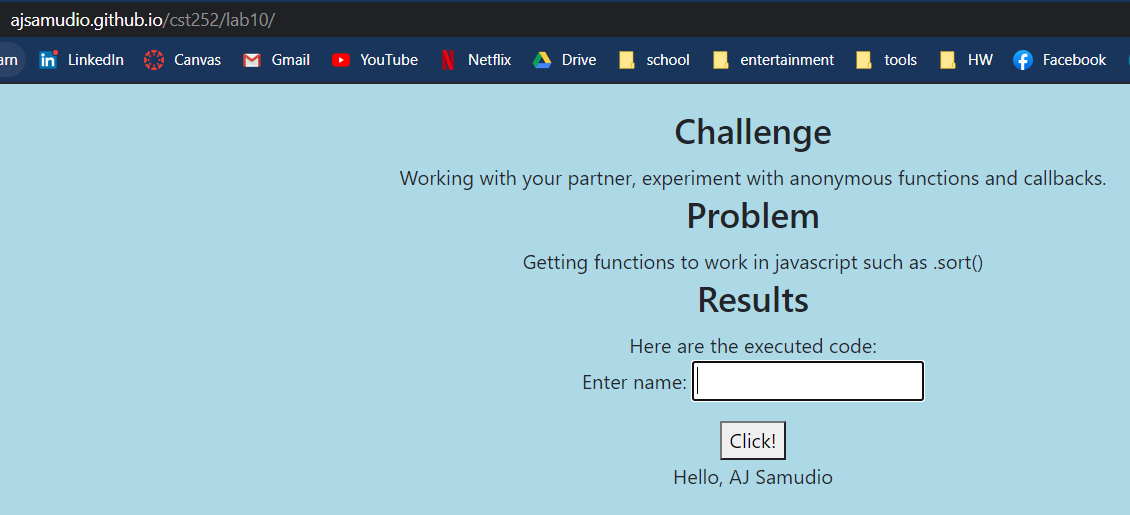
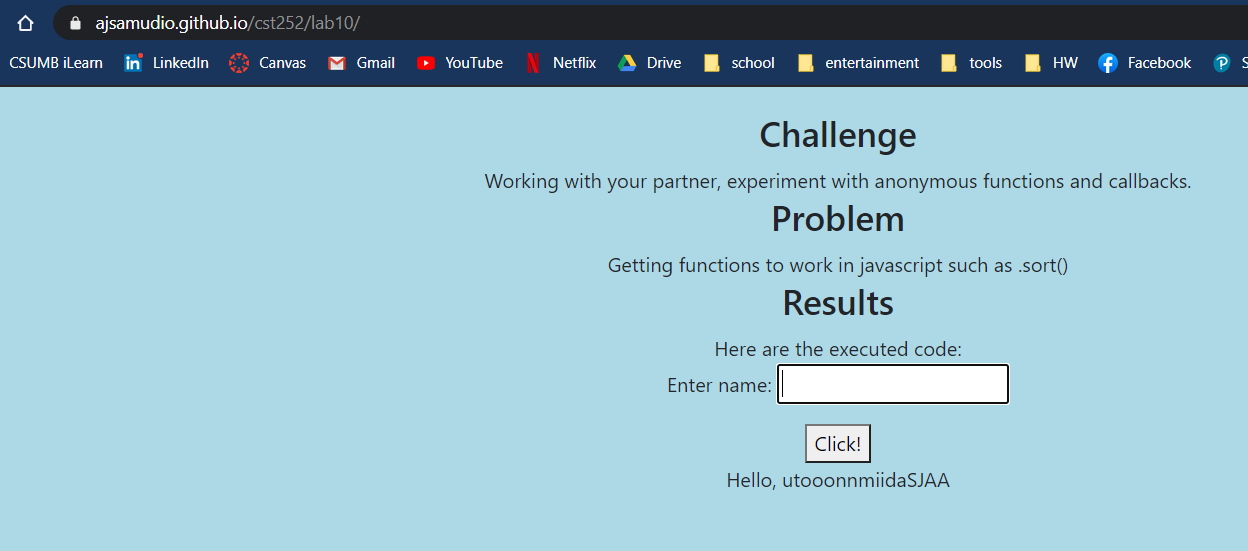
fancyLab10

Changed region(s): [[0.3407, 0.3107, 0.9912, 0.9631], [0.0, 0.0, 1.0, 0.1864], [0.5885, 0.2175, 0.7434, 0.2796]]

diff --git a/lab10/index.html b/lab10/index.html
@@ -9,15 +9,15 @@
 </head>
 <body class="container centeredText">
 
-
+<div class="box">
 	<h3>Challenge</h3>
-			Working with your partner, experiment with anonymous functions and callbacks.<br>
+		<p>	Working with your partner, experiment with anonymous functions and callbacks.</p><br>
 
 	<h3>Problem</h3>
-		Getting functions to work in javascript such as .sort()<br>
+		<p>	Getting functions to work in javascript such as .sort()</p><br>
 
 	<h3>Results</h3>
-		Here are the executed code:<br>
+		<p>Here are the executed code:</p><br>
 
 		<p>Enter name: <input type="text" id="fname"><br></p>
 		<button type="button" id="myButton">Click!</button>
@@ -25,5 +25,7 @@
 			<div id="output">
 				<p> Hello placeholder text </p>
 			</div>
+
+		</div>
 </body>
 </html>

diff --git a/lab10/js/lab.js b/lab10/js/lab.js
@@ -13,7 +13,7 @@
  function buttonPress() {
    var inputText = scan.value;
 
-   text.innerText = "Hello, " + inputText.split('').sort().reverse().join('');
+   text.innerText = "Hello, " + inputText.split('').sort().reverse() .join('');
 
    // var nameArray = scan.sort().reverse();
    // text.innerText = "Hello, " + nameArray;

diff --git a/lab10/css/lab.css b/lab10/css/lab.css
@@ -1,3 +1,16 @@
 #myButton{
    size: 50px;
 }
+.container{
+  background-image: url("../img/ballbeach.gif");
+}
+.box{
+  background-color: lightgray;
+  opacity: 0.9;
+  box-shadow: 5px 10px 18px #888888;
+  padding: 25px;
+  margin: 100px;
+}
+p{
+  opacity: 1;
+}
